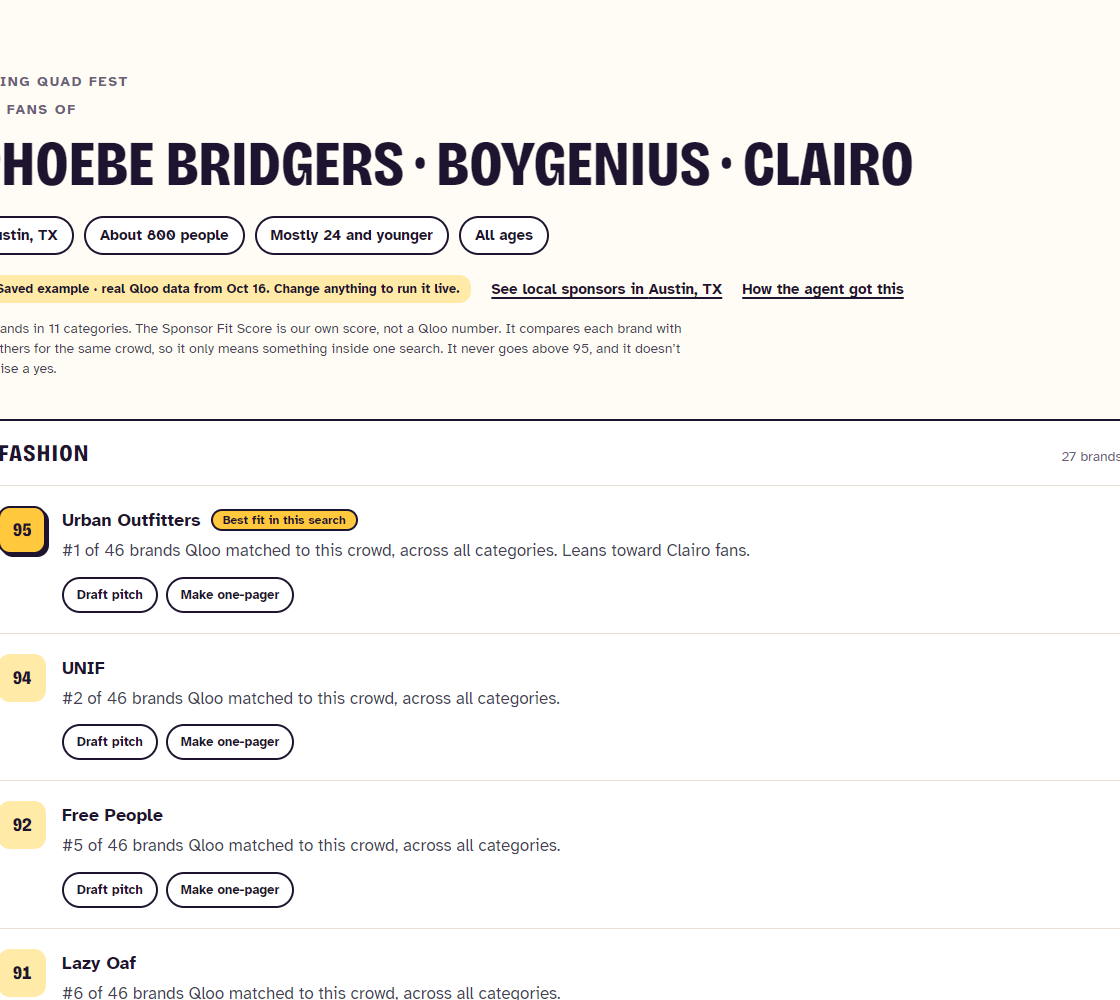
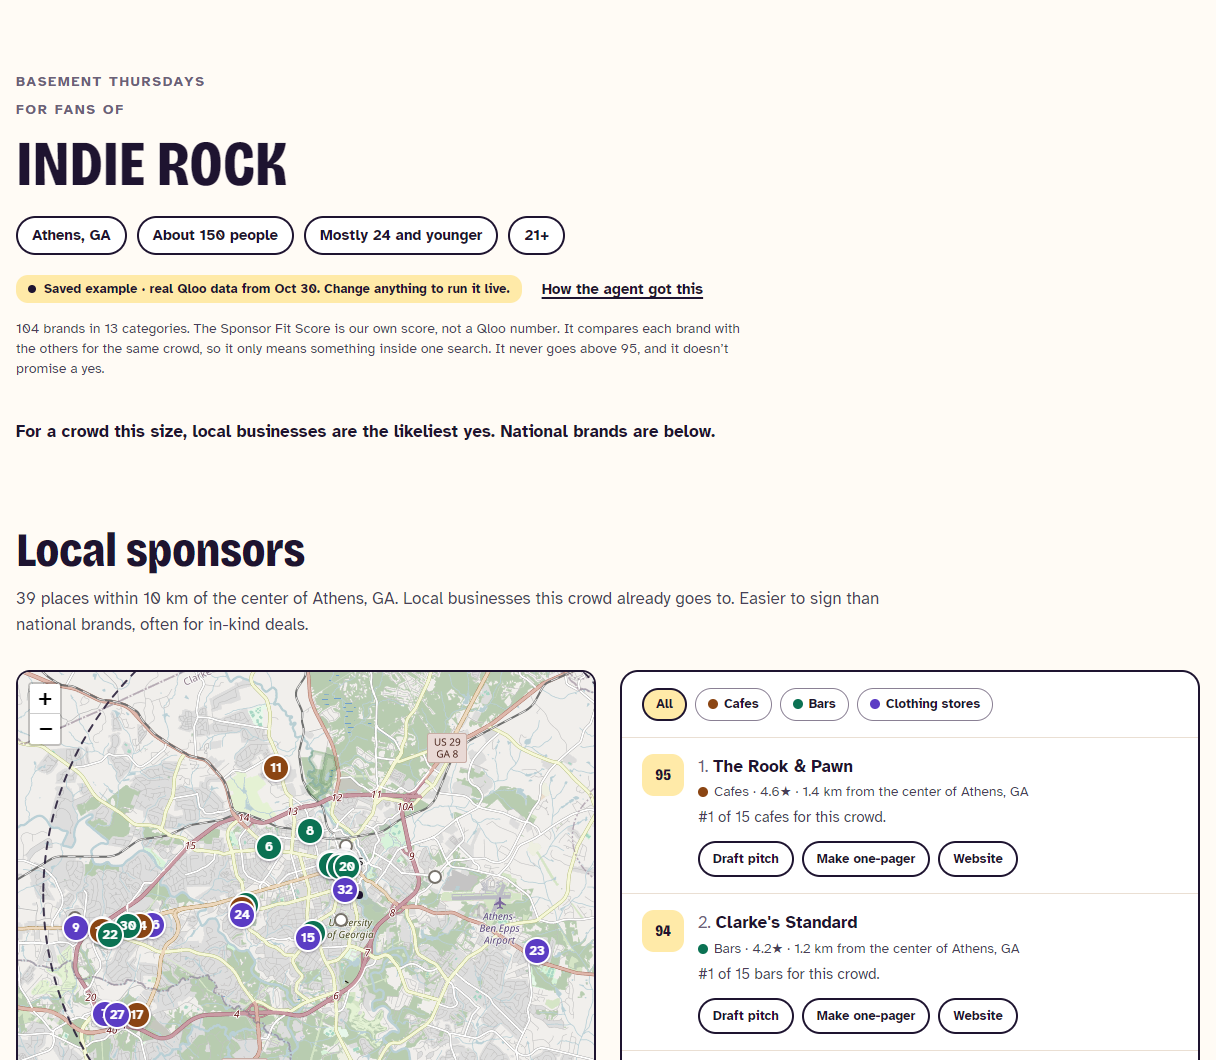
Small bar gig is the main example; looser live limits for judges
- "Try an example" now runs the 150-person 21+ bar gig in Athens, GA
  (local bands, genre only, local sponsors first): the case Echolocate is
  built for and the first thing a judge sees. The Austin campus show with
  known artists is the second link, for the reasons that name artists.
- Per-IP live limits raised (15 searches per 10 minutes, 60 per day): the
  rules ask for a demo judges can use without restriction, and Qloo said on
  the Devpost forum that judges must be able to use it live and that
  requests are free through judging. The daily Qloo call cap stays.
- README: small example first, new first screenshot, new limits.

diff --git a/src/components/sponsor-finder.tsx b/src/components/sponsor-finder.tsx
@@ -133,11 +133,10 @@ const EXAMPLES = {
 
 type ExampleId = keyof typeof EXAMPLES;
 
-const EXAMPLE_NOTE = `Instant: a saved search with real Qloo data, for ${
-  findAdmission(EXAMPLES.campus.admission)?.phrase ?? "a show"
-} in ${EXAMPLES.campus.city} with ${joinNames(splitNames(EXAMPLES.campus.artistsText))}. No sign-up.`;
+// The small bar gig comes first: it is the case Echolocate is built for.
+const EXAMPLE_NOTE = `Instant: a saved search with real Qloo data, for a ${EXAMPLES.bar.crowdSize}-person 21+ bar gig in ${EXAMPLES.bar.city}. Local bands Qloo doesn't know, so it searches by genre. No sign-up.`;
 
-const SMALL_EXAMPLE_LABEL = `Or try a small one: a ${EXAMPLES.bar.crowdSize}-person 21+ bar gig in ${EXAMPLES.bar.city}, local bands, genre only`;
+const OTHER_EXAMPLE_LABEL = `Or a bigger one: an ${EXAMPLES.campus.crowdSize}-person campus show in ${EXAMPLES.campus.city} with ${joinNames(splitNames(EXAMPLES.campus.artistsText))}`;
 
 const TOP_PER_CATEGORY = 5;
 
@@ -290,7 +289,7 @@ export function SponsorFinder() {
   }
 
   /** Fills the form with a saved example and runs it (answered from the recording, no live Qloo call). */
-  function runExample(id: ExampleId = "campus") {
+  function runExample(id: ExampleId) {
     const example = EXAMPLES[id];
     setEventName(example.eventName);
     setArtistsText(example.artistsText);
@@ -411,9 +410,9 @@ export function SponsorFinder() {
   return (
     <main className="flex-1">
       <Hero
-        onTryExample={() => runExample("campus")}
-        onTrySmallExample={() => runExample("bar")}
-        smallExampleLabel={SMALL_EXAMPLE_LABEL}
+        onTryExample={() => runExample("bar")}
+        onTryOtherExample={() => runExample("campus")}
+        otherExampleLabel={OTHER_EXAMPLE_LABEL}
         busy={loading}
         exampleNote={EXAMPLE_NOTE}
       />
@@ -423,12 +422,12 @@ export function SponsorFinder() {
         <h2 className={sectionTitleClass}>Use your own event</h2>
         <p className="mt-3 text-ink-2">
           Start with the kind of music or a few artists. Add a city to see local sponsors on a map. No event yet?{" "}
-          <button type="button" onClick={() => runExample("campus")} disabled={loading} className={`${linkClass} disabled:opacity-60`}>
-            Try an example
+          <button type="button" onClick={() => runExample("bar")} disabled={loading} className={`${linkClass} disabled:opacity-60`}>
+            Try a small 21+ bar gig
           </button>{" "}
           or{" "}
-          <button type="button" onClick={() => runExample("bar")} disabled={loading} className={`${linkClass} disabled:opacity-60`}>
-            a small 21+ bar gig
+          <button type="button" onClick={() => runExample("campus")} disabled={loading} className={`${linkClass} disabled:opacity-60`}>
+            a campus show
           </button>
         </p>
 

diff --git a/src/lib/rate-limit.ts b/src/lib/rate-limit.ts
@@ -5,7 +5,7 @@
 // - Per day: at most DAILY_LIVE_CALLS live Qloo calls.
 // - QLOO_LIVE=off (env var, e.g. in Vercel) pauses live searches; the saved
 //   example keeps working.
-// The saved "Try an example" search never counts.
+// The saved example searches never count.
 //
 // Counts live in memory, so on Vercel each server instance keeps its own.
 // Good enough for a demo; a shared limit would need a store like Redis.
@@ -19,17 +19,21 @@ const DAY = 24 * 60 * MINUTE;
 
 export const DAILY_LIVE_CALLS = 600;
 
+// Loose enough that a judge can test freely: the rules ask for the demo to be
+// usable without restriction, and Qloo confirmed (Devpost forum, 26 Oct) that
+// hackathon requests are free through judging. DAILY_LIVE_CALLS still guards
+// the key's quota against runaway traffic.
 const LIMITS = {
   // One search = /api/brands; the map's /api/places call follows each one.
   search: [
-    { max: 6, windowMs: 10 * MINUTE },
-    { max: 20, windowMs: DAY },
+    { max: 15, windowMs: 10 * MINUTE },
+    { max: 60, windowMs: DAY },
   ],
   places: [
-    { max: 12, windowMs: 10 * MINUTE },
-    { max: 40, windowMs: DAY },
+    { max: 30, windowMs: 10 * MINUTE },
+    { max: 120, windowMs: DAY },
   ],
-  pitch: [{ max: 10, windowMs: 10 * MINUTE }],
+  pitch: [{ max: 20, windowMs: 10 * MINUTE }],
 } as const;
 
 type Bucket = keyof typeof LIMITS;

diff --git a/src/components/intro.tsx b/src/components/intro.tsx
@@ -34,15 +34,16 @@ function HeroRings() {
 
 export function Hero({
   onTryExample,
-  onTrySmallExample,
-  smallExampleLabel,
+  onTryOtherExample,
+  otherExampleLabel,
   busy,
   exampleNote,
 }: {
+  /** The main saved example: the small show Echolocate is built for. */
   onTryExample: () => void;
-  /** The second saved example: a small 21+ show, genre only. */
-  onTrySmallExample: () => void;
-  smallExampleLabel: string;
+  /** The other saved example: a bigger show with known artists. */
+  onTryOtherExample: () => void;
+  otherExampleLabel: string;
   busy: boolean;
   /** What the saved example is, shown under the buttons. */
   exampleNote: string;
@@ -76,11 +77,11 @@ export function Hero({
             <p>
               <button
                 type="button"
-                onClick={onTrySmallExample}
+                onClick={onTryOtherExample}
                 disabled={busy}
                 className="text-left font-bold underline decoration-2 underline-offset-[3px] hover:decoration-accent disabled:opacity-60"
               >
-                {smallExampleLabel} →
+                {otherExampleLabel} →
               </button>
             </p>
           </div>

diff --git a/README.md b/README.md
@@ -10,12 +10,12 @@ Echolocate finds sponsors for small events (campus shows, community gigs) by ask
 
 ### Try it in 60 seconds (no sign-up)
 
-1. Click **Try an example** (a campus show in Austin, TX, 800 people), or the link under it for **a small 21+ bar gig in Athens, GA** (150 people, local bands, genre only). Both are answered instantly from saved, real Qloo answers.
+1. Click **Try an example**: a 150-person 21+ bar gig in Athens, GA with local bands Qloo doesn't know, so it searches by genre. Local sponsors come first, on a map. The link under it runs a bigger campus show in Austin, TX (800 people, with Phoebe Bridgers, boygenius and Clairo), where the reasons name the artists. Both are answered instantly from saved, real Qloo answers.
 2. Scan the brands by category: each has a Sponsor Fit Score and the reason from Qloo's data.
 3. Click **Draft pitch** on any brand or local place, then **Make one-pager** and **Download PDF**.
 4. Scroll to **How the agent got this**: the decisions the agent took, and every Qloo request with its parameters.
 
-![Results for the example event: brands ranked by category, each with a Sponsor Fit Score and the reason from Qloo's data](docs/screenshot-results.png)
+![Results for the small example, a 150-person 21+ bar gig in Athens, GA: local sponsors first, on a map with the radius that was searched, each with a Sponsor Fit Score and the reason from Qloo's data](docs/screenshot-results.png)
 
 ![A one-page sponsor sheet for Urban Outfitters, made in the browser with the organizer's details filled in](docs/screenshot-one-pager.png)
 
@@ -163,9 +163,9 @@ Open http://localhost:3000.
 ### Limits on the public demo
 
 So that one visitor cannot use up the Qloo quota:
-- 6 live searches per IP per 10 minutes, and 20 per day,
+- 15 live searches per IP per 10 minutes, and 60 per day,
 - 600 live Qloo calls per day in total,
-- the saved example never counts.
+- the saved examples never count.
 
 **To pause all live searches** (the example keeps working), set the environment variable `QLOO_LIVE=off`:
 - **Vercel:** Project → Settings → Environment Variables, add `QLOO_LIVE` = `off`, then redeploy. Remove it and redeploy to switch live search back on.
